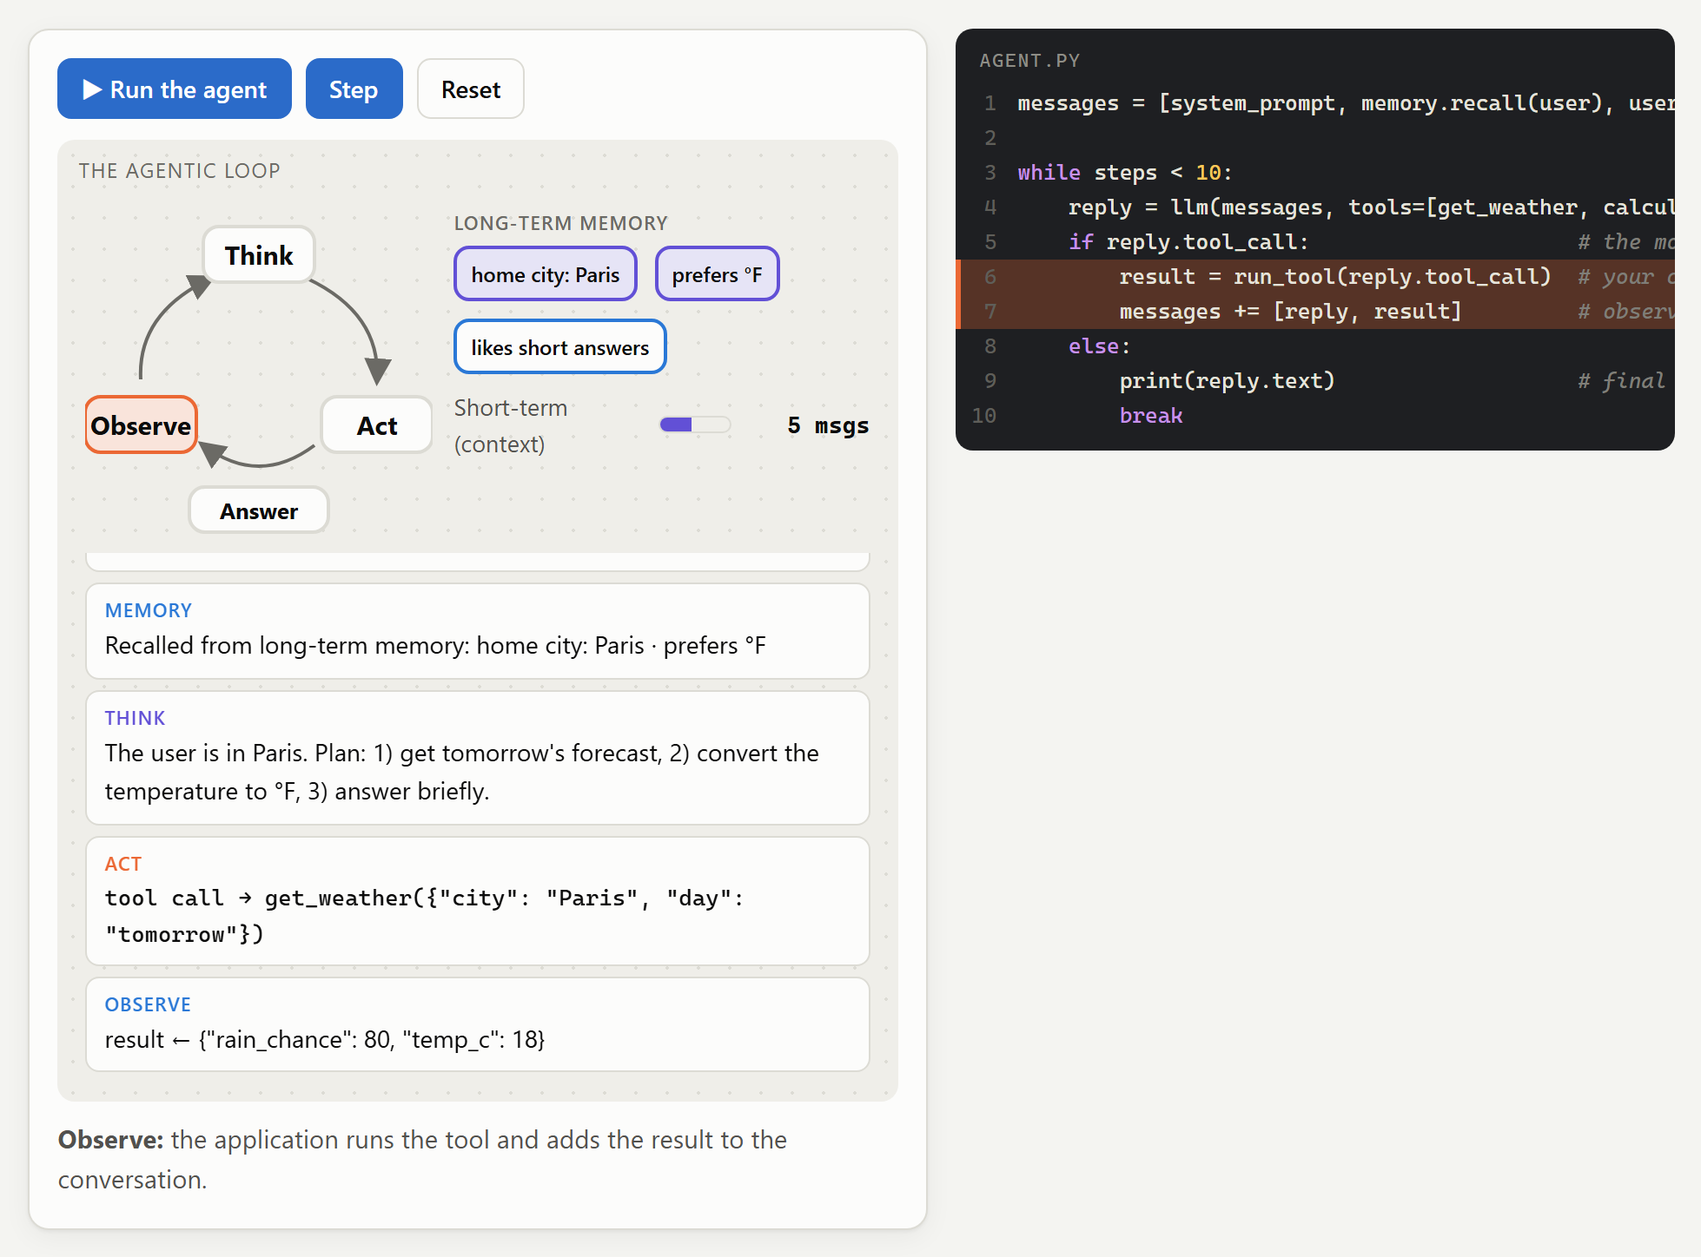
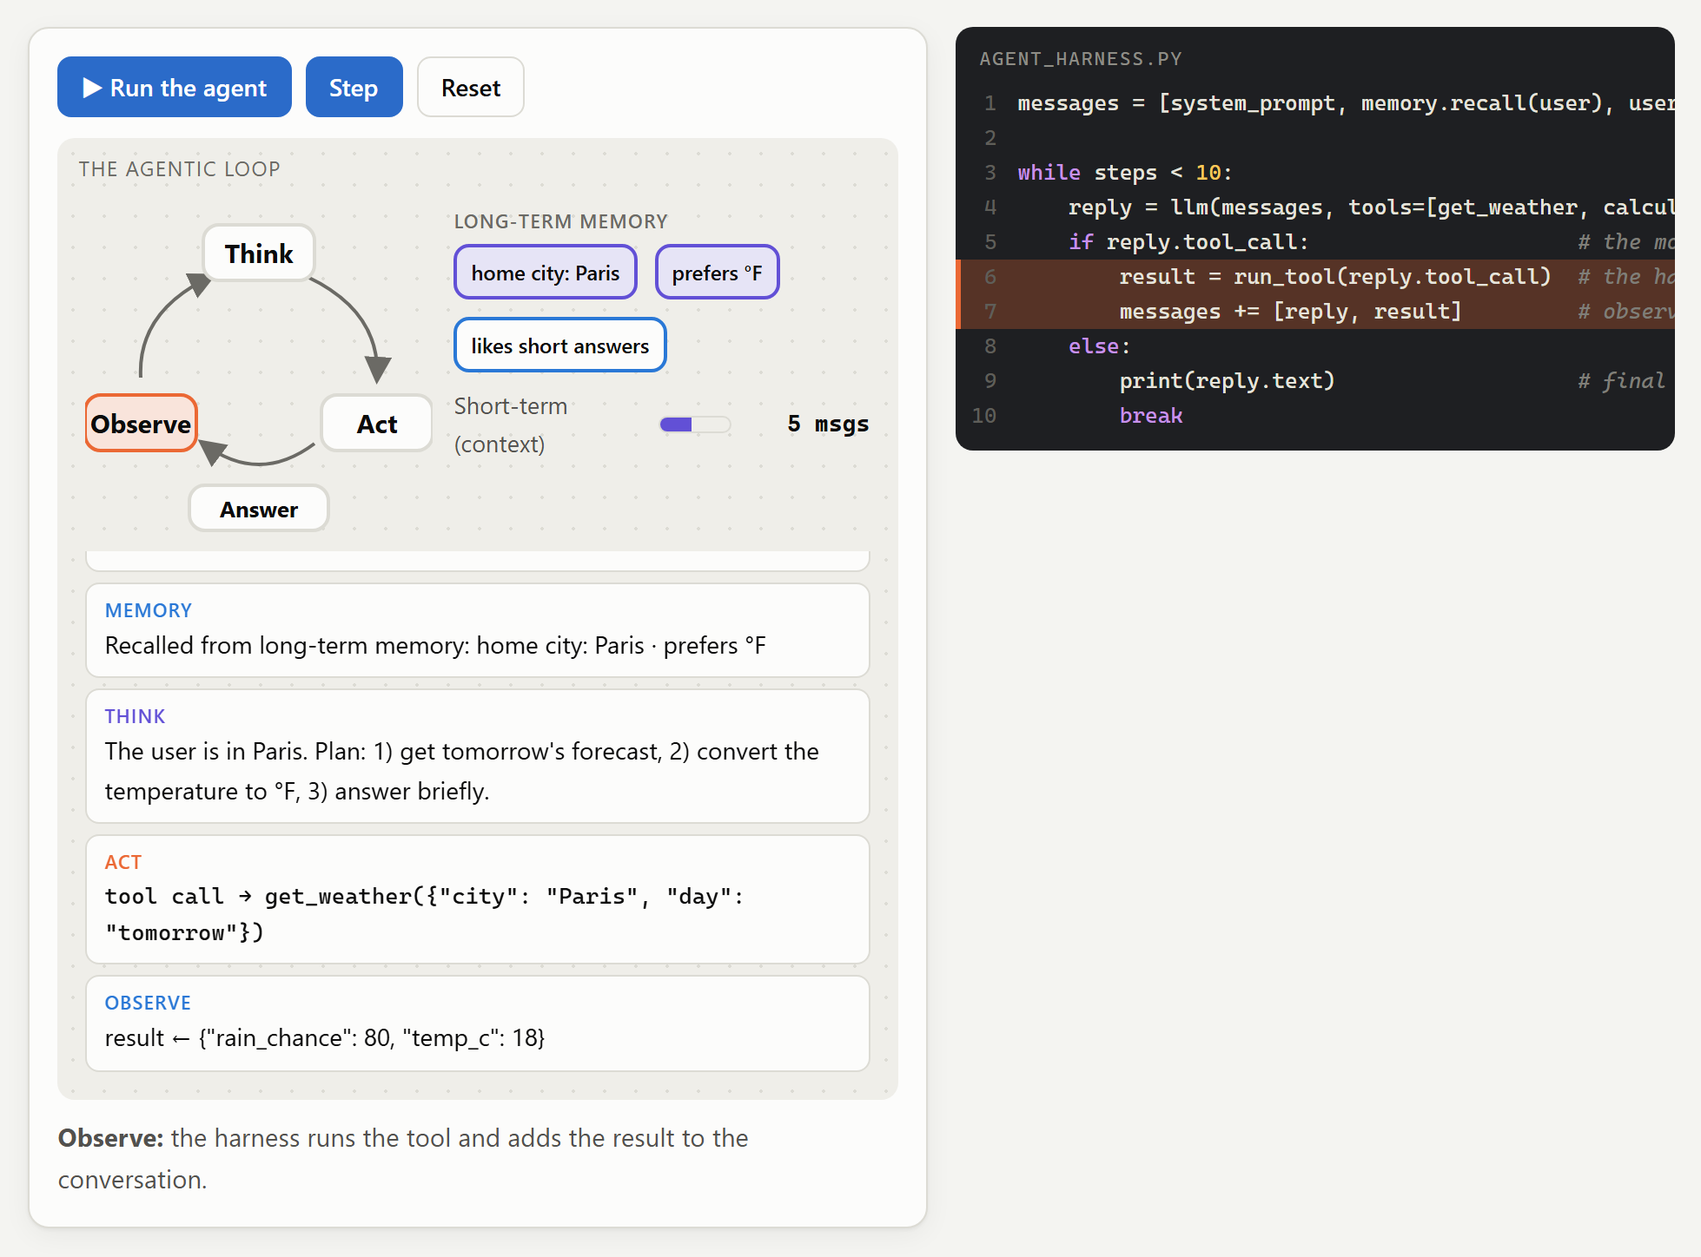
Teach Agent = LLM + harness and context engineering
Lesson 7 explains the harness (tools, loop, context and memory, safety)
and uses "harness" throughout the tool-calling text, demo and quizzes.
Lesson 5 adds context engineering vs. prompt engineering. Also updates
the glossary, the MCP host note, the README and its agent screenshot.

diff --git a/index.html b/index.html
@@ -1897,11 +1897,24 @@ print(prompt)`, "generate.py");
   </table>
   <div class="callout tip">Treat prompts like code: test them on several real inputs, change one thing at a time, and keep the versions that work. Many modern models also "think" internally before answering, but clear steps and a clear output format still help.</div>
 
+  <h3>From prompt engineering to context engineering</h3>
+  <p>A prompt is only part of what the model sees. <b>Context engineering</b> is deciding <b>everything</b> that goes into the context window for each call: the instructions, but also the right documents, the tools, memories, the conversation so far, and what to leave out or summarise so the important parts fit.</p>
+  <table class="cx">
+    <thead><tr><th></th><th>Prompt engineering</th><th>Context engineering</th></tr></thead>
+    <tbody>
+      <tr><td><b>Focus</b></td><td>how you <b>write</b> the request</td><td>what the model <b>sees</b> when it answers</td></tr>
+      <tr><td><b>Includes</b></td><td>instructions, role, examples, output format</td><td>all of that, plus retrieved documents (RAG), tool definitions and results, memories, chat history</td></tr>
+      <tr><td><b>Done by</b></td><td>mostly a person, once per task</td><td>mostly the app or agent harness, automatically, at every step</td></tr>
+      <tr><td><b>Analogy</b></td><td>writing a clear brief</td><td>also packing the right folder of papers to go with it, and nothing extra</td></tr>
+    </tbody>
+  </table>
+  <p>The model only knows what's in its context, so a great prompt with the wrong documents still gives a wrong answer, and too much irrelevant text can bury the important part. RAG (lesson 6) and agents (lesson 7) are context engineering in action.</p>
+
   <h3>Where it shows up</h3>
   <ul>
     <li>Everyday chat use: better questions get better answers.</li>
     <li>Apps built on LLMs: a carefully tested system prompt plus structured (often JSON) output that the app's code reads.</li>
-    <li>RAG and agents (next lessons) are prompt engineering too: they put the right information and tools into the prompt.</li>
+    <li>RAG and agents (next lessons) rely on context engineering: they put the right information and tools into the context.</li>
   </ul>
   <div class="quizbox"></div>
 </section>
@@ -2197,8 +2210,8 @@ answer = llm(prompt)`, "rag.py");
 <!-- ===================================================================== 7 -->
 <section class="section" id="agents" data-title="7. AI Agents">
   <h2>7. AI Agents <small style="color:var(--muted);font-weight:500">(LLMs that take action)</small></h2>
-  <p class="lead">An <b>AI agent</b> is an LLM that can use <b>tools</b> (search, calculators, calendars, code, other apps) and works in a <b>loop</b> toward a goal: it decides what to do, does it, looks at the result, and repeats until the task is done.</p>
-  <p>A chatbot is like a knowledgeable friend on the phone: they can only talk. An agent is like an assistant at a desk with a computer and a phone: they can look things up, calculate, and get things done, checking each result before the next step.</p>
+  <p class="lead">An <b>AI agent</b> is an <b>LLM plus a harness</b>: the program around the model that gives it <b>tools</b> (search, calculators, calendars, code, other apps) and keeps it working in a <b>loop</b> toward a goal. The model decides what to do; the harness does it, shows the model the result, and they repeat until the task is done.</p>
+  <p>A chatbot is like a knowledgeable friend on the phone: they can only talk. An agent is like an assistant at a desk with a computer and a phone: they can look things up, calculate, and get things done, checking each result before the next step. The LLM is the assistant's brain; the harness is everything around it: the desk, the computer, the phone, the to-do list and the office rules.</p>
 
   <div class="w-agent">
   <div class="grid2">
@@ -2226,21 +2239,32 @@ answer = llm(prompt)`, "rag.py");
   </div>
   <style>@media (max-width: 560px) { #agents .ag-top { grid-template-columns: minmax(0, 1fr) !important; } }</style>
 
-  <h3>Agent = LLM + tools</h3>
-  <p>The LLM is the "brain" that reads and decides. <b>Tools</b> are functions the application makes available, each with a <b>name</b>, a <b>description</b> and the <b>inputs</b> it needs, so the model knows when and how to use it:</p>
+  <h3>Agent = LLM + harness</h3>
+  <p>The <b>LLM</b> is the brain: it reads, reasons and decides. On its own it can only turn text into text. The <b>harness</b> is the program around it that does everything else:</p>
+  <table class="cx">
+    <thead><tr><th>Harness job</th><th>What it means</th><th>In the demo above</th></tr></thead>
+    <tbody>
+      <tr><td><b>Tools</b></td><td>offers the model a list of tools, and runs the ones it asks for</td><td><code>get_weather</code>, <code>calculator</code></td></tr>
+      <tr><td><b>The loop</b></td><td>sends the conversation to the model again and again, until the task is done or a limit is hit</td><td>think → act → observe, at most 10 steps</td></tr>
+      <tr><td><b>Context and memory</b></td><td>decides what goes into the context window (context engineering, lesson 5), and saves and recalls long-term memories</td><td>"home city: Paris"</td></tr>
+      <tr><td><b>Safety</b></td><td>sets permissions and limits, and asks a person to approve risky actions</td><td>only two harmless tools</td></tr>
+    </tbody>
+  </table>
+  <div class="callout tip"><b>Same LLM, different harness, different agent.</b> A coding agent, a research agent and a customer-support agent can all use the same model. Their harnesses give them different tools, instructions and rules, which is why the harness matters as much as the model.</div>
+  <p><b>Tools</b> are functions the harness makes available, each with a <b>name</b>, a <b>description</b> and the <b>inputs</b> it needs, so the model knows when and how to use it:</p>
   <div class="code ag-tooldef" style="max-height:none;margin:8px 0 16px"></div>
 
   <h3>Tool calling: how the model asks to use a tool</h3>
   <ol class="ex">
-    <li>The app sends the conversation <b>plus the list of tools</b> to the model.</li>
+    <li>The harness sends the conversation <b>plus the list of tools</b> to the model.</li>
     <li>If a tool would help, the model replies with a <b>tool call</b>: the tool's name and its arguments, usually as JSON, for example <code>get_weather({"city": "Paris"})</code>.</li>
-    <li><b>The application</b>, not the model, runs the tool and sends back the result.</li>
+    <li><b>The harness</b>, not the model, runs the tool and sends back the result.</li>
     <li>The model reads the result and either calls another tool or writes the final answer.</li>
   </ol>
-  <div class="callout warn">The model never runs anything itself; it only <b>asks</b>. That's where you put safety checks, such as asking a person to approve before a tool sends an email or makes a payment (more in lesson 10).</div>
+  <div class="callout warn">The model never runs anything itself; it only <b>asks</b>. So the harness is where you put safety checks, such as asking a person to approve before a tool sends an email or makes a payment (more in lesson 10).</div>
 
   <h3>Reasoning, planning and the agentic loop</h3>
-  <p>Before acting, the agent <b>reasons</b> about the goal and <b>plans</b> the steps ("first get the forecast, then convert the temperature"). Then it runs the loop: <b>think → act → observe → repeat</b>, adjusting the plan when a result is surprising, until it can answer or hits a limit (for example a maximum number of steps).</p>
+  <p>Before acting, the agent <b>reasons</b> about the goal and <b>plans</b> the steps ("first get the forecast, then convert the temperature"). Then it runs the loop: <b>think → act → observe → repeat</b>, adjusting the plan when a result is surprising, until it can answer or hits a limit set by the harness (for example a maximum number of steps).</p>
 
   <h3>Memory: short-term and long-term</h3>
   <table class="cx">
@@ -2250,7 +2274,7 @@ answer = llm(prompt)`, "rag.py");
       <tr><td><b>Long-term</b></td><td>outside the model (a database, files, a vector store), retrieved when relevant</td><td>"home city: Paris", "prefers °F", saved from earlier chats</td></tr>
     </tbody>
   </table>
-  <p>Short-term memory is limited by the context window and is gone when the session ends. Long-term memory is usually stored and fetched just like RAG.</p>
+  <p>Short-term memory is limited by the context window and is gone when the session ends. Long-term memory is saved and fetched by the harness, usually just like RAG.</p>
 
   <h3>Chat, RAG or agent?</h3>
   <table class="cx">
@@ -2280,11 +2304,11 @@ answer = llm(prompt)`, "rag.py");
 while steps < 10:
     reply = llm(messages, tools=[get_weather, calculator])
     if reply.tool_call:                     # the model ASKS for a tool
-        result = run_tool(reply.tool_call)  # your code runs it
+        result = run_tool(reply.tool_call)  # the harness runs it
         messages += [reply, result]         # observe, then loop again
     else:
         print(reply.text)                   # final answer
-        break`, "agent.py");
+        break`, "agent_harness.py");
   DS.code(document.querySelector("#agents .ag-tooldef"), `tools = [{
     "name": "get_weather",
     "description": "Get the forecast for a city and day.",
@@ -2308,10 +2332,10 @@ while steps < 10:
   const MEM = ["home city: Paris", "prefers °F", "likes short answers"];
   const STEPS = [
     { who: "user", text: "Do I need an umbrella tomorrow? And what will the temperature be?", say: "The user's goal. Notice they didn't say which city.", line: 1 },
-    { mem: [0, 1], text: "Recalled from long-term memory: home city: Paris · prefers °F", who: "obs", label: "memory", say: "Before starting, the app fetches relevant <b>long-term memories</b> and adds them to the context.", line: 1 },
+    { mem: [0, 1], text: "Recalled from long-term memory: home city: Paris · prefers °F", who: "obs", label: "memory", say: "Before starting, the harness fetches relevant <b>long-term memories</b> and adds them to the context.", line: 1 },
     { ph: "think", who: "think", text: "The user is in Paris. Plan: 1) get tomorrow's forecast, 2) convert the temperature to °F, 3) answer briefly.", say: "<b>Think:</b> the model reasons and makes a plan.", line: 4 },
     { ph: "act", who: "act", text: 'tool call → get_weather({"city": "Paris", "day": "tomorrow"})', say: "<b>Act:</b> the model replies with a <b>tool call</b>: a name and JSON arguments. It doesn't run it.", line: [4, 5] },
-    { ph: "observe", who: "obs", text: 'result ← {"rain_chance": 80, "temp_c": 18}', say: "<b>Observe:</b> the application runs the tool and adds the result to the conversation.", line: [6, 7] },
+    { ph: "observe", who: "obs", text: 'result ← {"rain_chance": 80, "temp_c": 18}', say: "<b>Observe:</b> the harness runs the tool and adds the result to the conversation.", line: [6, 7] },
     { ph: "think", who: "think", text: "80% chance of rain → yes, an umbrella. The user prefers °F, so convert 18 °C.", say: "<b>Think</b> again with the new information. One more step is needed.", line: 4 },
     { ph: "act", who: "act", text: 'tool call → calculator({"expression": "18 * 9 / 5 + 32"})', say: "<b>Act:</b> call the calculator instead of guessing the maths.", line: [4, 5] },
     { ph: "observe", who: "obs", text: "result ← 64.4", say: "<b>Observe</b> the result.", line: [6, 7] },
@@ -2344,9 +2368,9 @@ while steps < 10:
 
   DS.quiz(document.querySelector("#agents .quizbox"), [
     { q: "What is an AI agent?", options: ["A chatbot with a nicer interface", "An LLM that can use tools and take actions in a loop to reach a goal", "A person who sells AI software", "A bigger language model"], answer: 1,
-      why: "Agent = LLM + tools + a loop: it decides, acts with tools, checks the results and repeats." },
-    { q: "When the model makes a <b>tool call</b>, who actually runs the tool?", options: ["The model runs it inside itself", "The application's code runs it and sends the result back to the model", "The user, by hand", "Nobody; it's simulated"], answer: 1,
-      why: "The model only asks (tool name + arguments). The application runs the tool and returns the result." },
+      why: "Agent = LLM + harness: the model decides, and the harness gives it tools, runs them and keeps the loop going until the goal is reached." },
+    { q: "When the model makes a <b>tool call</b>, who actually runs the tool?", options: ["The model runs it inside itself", "The harness (the app's code) runs it and sends the result back to the model", "The user, by hand", "Nobody; it's simulated"], answer: 1,
+      why: "The model only asks (tool name + arguments). The harness runs the tool and returns the result." },
     { q: "What is the order of the agentic loop?", options: ["Answer, then think", "Think, act, observe, and repeat until done", "Act first, think never", "Observe, then stop"], answer: 1,
       why: "The agent reasons, takes an action with a tool, observes the result, and loops until it can give the final answer." },
   ]);
@@ -2385,7 +2409,7 @@ while steps < 10:
   <h3>MCP: a standard way to connect agents to tools and data</h3>
   <ul>
     <li>Before MCP, every AI app needed custom code for every tool. MCP is like a <b>USB-C port for AI</b>: build a connector once, use it in any app that supports MCP.</li>
-    <li><b>Client and server:</b> the AI application (the <b>host</b>) runs an <b>MCP client</b> for each <b>MCP server</b> it connects to. A server wraps one system (GitHub, a database, a file system, a calendar) and exposes what it offers.</li>
+    <li><b>Client and server:</b> the AI application (the <b>host</b>, for an agent its harness) runs an <b>MCP client</b> for each <b>MCP server</b> it connects to. A server wraps one system (GitHub, a database, a file system, a calendar) and exposes what it offers.</li>
     <li>Servers mainly offer <b>tools</b> (actions the model can call), <b>resources</b> (data it can read) and <b>prompts</b> (ready-made templates). The app first asks <i>"what do you offer?"</i> (<code>tools/list</code>), then calls a tool when the model asks for it (<code>tools/call</code>). The messages use JSON.</li>
     <li>MCP was introduced by Anthropic in late 2024 as an open standard and is now supported by many AI apps and tools.</li>
   </ul>
@@ -2756,11 +2780,13 @@ if reply.tool_call and is_risky(reply.tool_call):
     ["Prompting", "#prompt", "System prompt, role", "instructions that set the model's job, tone and rules"],
     ["Prompting", "#prompt", "Few-shot", "putting a few input → output examples in the prompt"],
     ["Prompting", "#prompt", "Structured output", "asking for lists, tables or JSON with fixed keys"],
+    ["Prompting", "#prompt", "Context engineering", "choosing everything the model sees: instructions, documents, tools, memories, history"],
     ["RAG", "#rag", "RAG", "retrieve relevant chunks, add them to the prompt, generate the answer"],
     ["RAG", "#rag", "Embedding", "a vector of numbers that captures a text's meaning"],
     ["RAG", "#rag", "Chunking, vector database", "splitting documents into pieces; storing and searching their vectors"],
-    ["Agents", "#agents", "AI agent", "an LLM with tools working in a loop toward a goal"],
-    ["Agents", "#agents", "Tool calling", "the model asks for a tool by name with arguments; the app runs it"],
+    ["Agents", "#agents", "AI agent", "an LLM plus a harness, using tools in a loop toward a goal"],
+    ["Agents", "#agents", "Harness", "the program around the LLM: offers and runs tools, runs the loop, manages context, memory and safety"],
+    ["Agents", "#agents", "Tool calling", "the model asks for a tool by name with arguments; the harness runs it"],
     ["Agents", "#agents", "Agentic loop", "think → act → observe → repeat"],
     ["Agents", "#agents", "Short- / long-term memory", "the context window / facts stored outside and recalled"],
     ["MCP & Skills", "#mcp", "MCP (Model Context Protocol)", "an open standard connecting AI apps (clients) to tools and data (servers)"],
@@ -2857,8 +2883,8 @@ if reply.tool_call and is_risky(reply.tool_call):
       why: "RAG retrieves relevant chunks from your documents and adds them to the prompt, so answers use knowledge the model wasn't trained on." },
     { q: "What does an <b>embedding</b> represent?", options: ["The meaning of a text, as a list of numbers", "A compressed copy of a file", "The model's password", "The length of a document"], answer: 0,
       why: "Embeddings turn text into vectors; texts with similar meanings get similar vectors, which makes meaning-based search possible." },
-    { q: "In an AI agent, what happens when the model makes a <b>tool call</b>?", options: ["The model runs the tool by itself", "The model asks for a tool with arguments; the application runs it and returns the result", "The user must type the result", "The conversation ends"], answer: 1,
-      why: "The model only requests the tool. The application executes it and sends the result back, and the agent loop continues." },
+    { q: "In an AI agent, what happens when the model makes a <b>tool call</b>?", options: ["The model runs the tool by itself", "The model asks for a tool with arguments; the harness runs it and returns the result", "The user must type the result", "The conversation ends"], answer: 1,
+      why: "The model only requests the tool. The harness (the app around the model) executes it and sends the result back, and the agent loop continues." },
     { q: "How do <b>MCP</b> and <b>Skills</b> work together?", options: ["They are two names for the same thing", "MCP gives the agent access to tools and data; Skills give it the know-how for a task", "Skills give access; MCP gives instructions", "Both are ways to fine-tune a model"], answer: 1,
       why: "MCP connects the agent to systems (access). Skills package instructions for doing a task well (know-how)." },
     { q: "When is <b>fine-tuning</b> usually the best choice?", options: ["When the facts change every week", "When you need a consistent behaviour or style that good prompts can't reliably produce, and you have many examples", "As the very first thing to try", "When you want the model to search the web"], answer: 1,

diff --git a/README.md b/README.md
@@ -19,9 +19,9 @@ A **self-paced online course, completely free**, that explains how modern AI wor
 **Part B · Generative AI in practice** (the main focus, about 80%)
 
 4. **Generative AI and LLMs**: what generative AI can create (text, code, images, audio, video), tokens and the context window, pre-training and instruction tuning, the Transformer, next-token prediction and temperature
-5. **Prompt Engineering**: clear instructions and roles, context and examples (few-shot), step-by-step thinking, structured output
+5. **Prompt Engineering**: clear instructions and roles, context and examples (few-shot), step-by-step thinking, structured output, and context engineering: choosing everything the model sees
 6. **RAG**: why LLMs need external knowledge, embeddings, chunking and vector databases, and the retrieve → augment → generate flow
-7. **AI Agents**: tools and tool calling, reasoning and planning, the think → act → observe loop, short- and long-term memory
+7. **AI Agents**: agent = LLM + harness (the program that gives the model tools and runs the loop), tool calling, reasoning and planning, the think → act → observe loop, short- and long-term memory
 8. **MCP and Skills**: MCP connects agents to tools and data; Skills teach them how to do a task
 9. **Fine-tuning**: what it is, and choosing between prompt engineering, RAG and fine-tuning
 10. **Limitations and Risks**: hallucinations, bias, privacy, prompt injection, and when a person must review AI output
@@ -33,7 +33,7 @@ A **self-paced online course, completely free**, that explains how modern AI wor
 - **Short code sketches** beside each demo, with the step being run highlighted, so you see how the idea is used in practice.
 - **A quiz in every lesson** (30 questions in total), plus an AI glossary to revise from.
 
-**Example: an AI agent at work.** The agent recalls that the user lives in Paris (long-term memory), plans, then asks for a tool: `get_weather({"city": "Paris", "day": "tomorrow"})`. The application runs it and the result comes back as an observation, while the loop diagram and the matching line of code light up.
+**Example: an AI agent at work.** The agent recalls that the user lives in Paris (long-term memory), plans, then asks for a tool: `get_weather({"city": "Paris", "day": "tomorrow"})`. The harness runs it and the result comes back as an observation, while the loop diagram and the matching line of code light up.
 
 [![AI agents lesson: the think, act, observe loop with Observe highlighted, long-term memories recalled, the tool call and its result in the conversation, next to the agent loop code with the observe lines highlighted](images/agent-lesson.png)](https://ibrahimsobh.github.io/introduction-to-ai/#agents)
 
